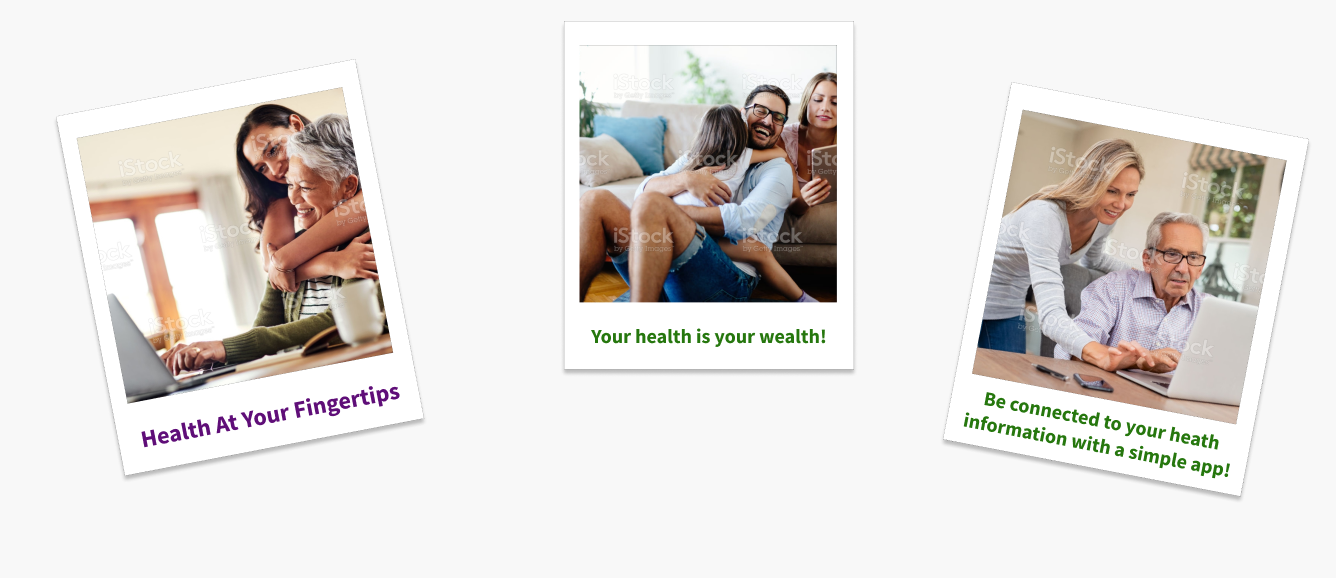
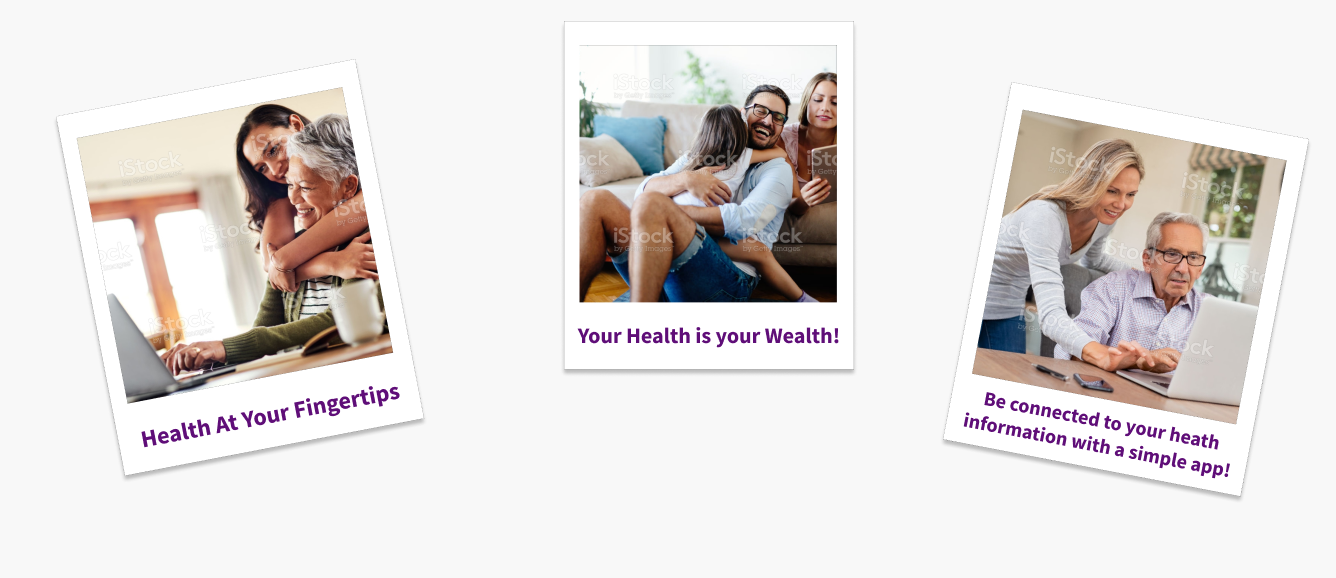
Finalish changes

Changed region(s): [[0.7058, 0.6851, 0.9207, 0.8408], [0.4296, 0.5606, 0.6445, 0.5917]]

diff --git a/src/components/Home.js b/src/components/Home.js
@@ -6,13 +6,14 @@ import "../Home.css"
 import 'bootstrap/dist/css/bootstrap.min.css';
 import QRcode from "../images/istockphoto-910737126-1024x1024.jpg"
 import healthWealth from "../images/istockphoto-1062274514-1024x1024.jpg"
-import videoPreview from "../videos/Medical buddy solutions.mp4"
+import video from "../videos/Medical buddy solutions.mp4"
 import paramedicPhoto from "../images/istockphoto-1131889468-1024x1024.jpg"
 import techPhoto from "../images/istockphoto-588366224-1024x1024.jpg"
 import {Container, Row, Col } from 'reactstrap';
 import lockPhoto from "../images/istockphoto-913016600-1024x1024.jpg"
 import healthCarePhoto from "../images/istockphoto-1182616138-2048x2048.jpg"
 import cover from "../images/Frame 2.png"
+import videoPreview from "../images/Capture.jpg";
 
 import { Player } from 'video-react';
 
@@ -25,7 +26,7 @@ class Home extends Component {
 
             <Heading/>
 
-                <Row style ={{width:"100%", backgroundColor:"#F8F8F8"}}>
+                <Row style ={{ backgroundColor:"#F8F8F8", marginLeft:"0px"}}>
 
                     {/*<Col>
 
@@ -38,7 +39,7 @@ class Home extends Component {
 
                     </Col>*/}
                     <Col>
-                        <img src={cover} style={{marginLeft: "0*27vw", width:"100vw", height:"43vw", paddingRight:"0px", paddingTop:"3vw"}}/>
+                        <img src={cover} style={{marginLeft: "0*27vw", height:"43vw", paddingRight:"0px", paddingTop:"3vw"}}/>
 
 
                     </Col>
@@ -48,7 +49,7 @@ class Home extends Component {
 
 
                 <Row xs="1" sm="2"  style ={{width:"100%", paddingRight:"0px", margin:"0px",paddingTop:"3vw", backgroundColor:"#5F0E78"}}>
-                    <Col style={{paddingLeft:"3vw",}}>
+                    <Col style={{paddingLeft:"3vw",textAlign:"center"}}>
 
                         <h1 style={{fontSize: "2vw", color:"white", fontWeight:"bold"}}>
                             Innovate your relationship with your health data</h1>
@@ -74,12 +75,14 @@ class Home extends Component {
 
                 </Row>
 
-                <Row xs="1" sm="2" style={{width: "99vw",margin:"0px", paddingTop: "6vw", paddingBottom:"7vw", backgroundColor: "#f8f8f8"}}>
-                    <Col style={{paddingLeft:"3vw"}}>
+                <Row xs="1" sm="2" style={{margin:"0px", paddingTop: "6vw", paddingBottom:"7vw", backgroundColor: "#f8f8f8"}}>
+                    <Col style={{paddingLeft:"3vw", textAlign:"center"}}>
 
                             <h1 style={{fontSize: "2.25vw", color:"#5F0E78", fontWeight:"bold"}}>
                                 Health Data On the Fly!
                             </h1>
+                            <br/>
+                            <br/>
                             <p style={{ fontSize: "2vw", color: "#5F0E78"}}>
                                 Medical Buddy Solutions realizes the value of having the capability to
                                 collaborate with medial professionals when times call for important medical details.
@@ -117,8 +120,8 @@ class Home extends Component {
                                 </div>*/}
 
                     </Col>
-                    <Col style={{textAlign:"center",margin:"auto",paddingRight: "0px", paddingLeft: "0px"}}>
-                        <Player style={{width: "32vw", paddingRight: "0px"}} src={videoPreview}/>
+                    <Col style={{textAlign:"center",margin:"auto",paddingRight: "10px", paddingLeft: "10px"}}>
+                        <Player style={{width: "25vw", paddingRight: "0px"}} src={video} poster ={videoPreview}/>
                     </Col>
                 </Row>
 
@@ -209,7 +212,7 @@ class Home extends Component {
                     */}
 
                 <Row xs="1" sm="2" style ={{width:"100%", paddingRight:"0px", margin:"0px",paddingBottom:"3vw",paddingTop:"3vw", backgroundColor:"#F8F8F8",gridAutoFlow: "row"}}>
-                    <Col style = {{}}>
+                    <Col style = {{paddingLeft:"3vw", textAlign:"center"}}>
 
                         <h1 style = {{fontSize:"2vw",marginTop:"5vw", color: "#5F0E78", fontWeight: "bold"}}>
                             Protect What Is Most Valuable
@@ -224,7 +227,7 @@ class Home extends Component {
                     </Col>
 
                     <Col style = {{textAlign: "center", margin: "auto"}}>
-                        <img src={healthWealth} style={{height:"30vw", width:"100%"}}/>
+                        <img src={healthWealth} style={{height:"30vw", width: "40vw"}}/>
                     </Col>
 
 
@@ -235,7 +238,7 @@ class Home extends Component {
                         <img src={QRcode} style={{height:"30vw"}}/>
                     </Col>
 
-                    <Col style = {{}}>
+                    <Col style = {{textAlign:"center"}}>
 
                         <h1 style = {{fontSize:"2vw",marginTop:"5vw", color: "#F8F8F8", fontWeight: "bold"}}>
                             All Your Health Records Available in One Place!

diff --git a/src/components/Our App.js b/src/components/Our App.js
@@ -24,8 +24,7 @@ class OurApp extends Component {
             </Row>
                 <Row >
                     <Col style = {{width:"47.5833333vw"}}>
-                         <h1 style={{paddingLeft: "5.41666vw" , fontSize: "3vw"}}>
-                             My Emergency Page
+                         <h1 style={{paddingLeft: "5.41666vw" , fontSize: "3vw"}}>My Emergency Page
                          </h1>
                         <h2 style={{paddingLeft: "5.41666vw" , fontSize: "1.5vw", color:"#8514a7"}}>
                             M.E.D.I (Medical Emergency Data Information)
@@ -36,7 +35,10 @@ class OurApp extends Component {
                         </p>
                     </Col>
                     <Col style ={{width: "28.83333333vw", height: "44.8333vw"}}>
-                        <img style = {{float:"right", paddingRight:"7.75vw", width: "28.83333333vw", height: "44.8333vw"}}src ={AppScreen}/>
+                        <img style = {{float:"right", paddingRight:"7.75vw", width: "28.83333333vw", height: "44.8333vw", paddingBottom: "10vw"}}src ={AppScreen}/>
+                        <br/>
+                        <br/>
+                        <br/>
 
                     </Col>
                 </Row>
@@ -47,8 +49,8 @@ class OurApp extends Component {
                             My Illness Page
                         </h1>
                         <br/>
-                        <p style={{paddingLeft: "5.41666vw" , fontSize: "2vw", color:"white"}}>
-                            Your illness page allows you to keep track of your illnessess, medications and your appointments. With our app you can take notes about what happens at your appointment, so you can always remember exactly what your health care provider tells you.
+                        <p style={{paddingLeft: "5.41666vw" ,width:"18em", fontSize: "2vw", color:"white"}}>
+                            Your illness page allows you to keep track of your illnessess, medications and your appointments. With the app you can take notes about what happens at your appointment, so you can always remember exactly what your health care provider tells you.
                         </p>
                     </Col>
                     <Col style ={{width: "28.83333333vw", height: "44.8333vw"}}>
@@ -61,10 +63,10 @@ class OurApp extends Component {
                     <>
                     <Row style={{ paddingTop:"5vw", backgroundColor:"#5F0E78", color:"white", marginRight:"0px"}}>
                         <h1 style={{paddingLeft: "10vw", fontSize: "3vw", width: "51.8333vw", color:"white"}}>
-                            My Contact Page
+                            My Illness Page
                         </h1>
-                        <p style={{paddingLeft: "10vw" , fontSize: "2vw", color:"white"}}>
-                            Your illness page allows you to keep track of your illnessess, medications and your appointments. With our app you can take notes about what happens at your appointment, so you can always remember exactly what your health care provider recommends you.                        </p>
+                        <p style={{paddingLeft: "10vw" , fontSize: "2vw", width:"18em", color:"white"}}>
+                            Your illness page allows you to keep track of your illnessess, medications and your appointments. With the app you can take notes about what happens at your appointment, so you can always remember exactly what your health care provider recommends you.                        </p>
                     </Row>
                     <Row style={{ paddingTop:"5vw", backgroundColor:"#5F0E78", color:"white"}}>
                         <h1 style={{paddingLeft: "10vw" , fontSize: "3vw", color:"white", textAlign: "center"}}> Try It Out Here</h1>
@@ -94,7 +96,7 @@ class OurApp extends Component {
                         </p>
                     </Col>
                     <Col style ={{width: "28.83333333vw", height: "44.8333vw"}}>
-                        <img style = {{float:"right", paddingRight:"7.75vw", width: "28.83333333vw", height: "28.83333333vw"}}src ={Lock}/>
+                        <img style = {{float:"right", paddingRight:"7.75vw", }}src ={Lock}/>
                     </Col>
                 </Row>
                 <Footer/>

diff --git a/src/components/Appointments.js b/src/components/Appointments.js
@@ -12,7 +12,7 @@ class Appointments extends Component {
                         </h2>
                     </Col>
                     <Col>
-                        <button style={{height: "1.5vw", width:"5.25vw", padding:"0px"}}>
+                        <button style={{height: "1.75vw", width:"5.25vw", padding:"0px"}}>
                             Add
                         </button>
                     </Col>
@@ -23,7 +23,7 @@ class Appointments extends Component {
 
                             <Col>
                                 <p>
-                                    <button style={{backgroundColor: "#770E49", padding:"0px", color:"white", borderRadius:"0px", height: "1.5vw", width:"1.5vw", marginRight:"0.4vw" }}>
+                                    <button style={{backgroundColor: "#770E49", display: "inline-flex", alignItems: "center", color:"white", borderRadius:"0px", height: "1.5vw", width:"1.5vw", marginRight:"0.4vw" }}>
                                         x
                                     </button>
 
@@ -63,6 +63,11 @@ class Appointments extends Component {
                                     </a>
 
                                 </div>
+                            </li>
+                            <li>
+                                <button style={{height: "1.75vw",  padding:"0px"}}>
+                                    Begin Appointment Recording
+                                </button>
                             </li>
                             {/*<li>
                                 <div>

diff --git a/src/components/FAQs.js b/src/components/FAQs.js
@@ -24,13 +24,24 @@ class FaQs extends Component {
                             Is my data safe?
                         </h2>
                         <br/>
-                        <p style={{paddingLeft:"8vw" , fontSize: "2vw", color: "#26770E"}}>
-                            Yes, your data is secured by blockchain.......
+                        <p style={{paddingLeft:"8vw" , fontSize: "2vw", color: "#8514A7"}}>
+                            Yes, your data is secured through your private key. As long as that is kept private, so is your data.
                         </p>
 
                     </Col>
                 </Row>
+                <Row>
+                    <Col>
+                        <h2 style={{paddingLeft:"8vw" , fontSize: "3vw", color: "#5F0E78"}}>
+                            Is there a monthly fee or subscription?
+                        </h2>
+                        <br/>
+                        <p style={{paddingLeft:"8vw" , fontSize: "2vw", color: "#8514A7"}}>
+                            For adult accounts, you make your one time payment of $30 you will have access to the platform for life.
+                        </p>
 
+                    </Col>
+                </Row>
                 <br/>
                 <br/>
                 <Footer/>

diff --git a/src/components/Our Mission.js b/src/components/Our Mission.js
@@ -5,13 +5,15 @@ import Heading from "./Heading";
 import Footer from "./Footer";
 import healthCarePhoto from "../images/istockphoto-1182616138-2048x2048.jpg";
 import {Player} from "video-react";
-import videoPreview from "../videos/Medical buddy solutions.mp4";
+import video from "../videos/Medical buddy solutions.mp4";
+import videoPreview from "../images/Capture.jpg";
+
 class OurMission extends Component {
     render() {
         return (
             <Container id = "siteContainer">
                 <Heading/>
-                <Row style ={{width:"100vw"}}>
+                <Row style ={{}}>
                 <Col style={{paddingTop: "2vw"}}>
 
                         <h1 style={{paddingLeft:"8vw", fontSize: "4vw"}}>
@@ -19,7 +21,7 @@ class OurMission extends Component {
                         </h1>
                         <center>
                         <div style={{textAlign:"center", width:"50vw"}}>
-                         <Player src={videoPreview}/>
+                         <Player src={video} poster = {videoPreview}/>
                         </div>
                         </center>
                         <p style={{paddingLeft:"8vw" , fontSize: "2vw", color: "#8514a7"}}>

diff --git a/src/components/Doctors.js b/src/components/Doctors.js
@@ -44,7 +44,7 @@ class Doctors extends Component {
                         </h2>
                     </Col>
                     <Col>
-                        <button onClick={this.addNewDoctor} style={{height: "1.5vw", width:"5.25vw", padding:"0px"}}>
+                        <button onClick={this.addNewDoctor} style={{height: "1.75vw", width:"5.25vw", padding:"0px"}}>
                             Add
                         </button>
                     </Col>
@@ -56,7 +56,7 @@ class Doctors extends Component {
 
                             <Col>
                                 <p style={{fontWeight: "bold"}}>
-                                    <button style={{backgroundColor: "#770E49", padding:"0px", color:"white", borderRadius:"0px", height: "1.5vw", width:"1.5vw", marginRight:"0.4vw" }}>
+                                    <button style={{backgroundColor: "#770E49", display: "inline-flex", alignItems: "center", color:"white", borderRadius:"0px", height: "1.5vw", width:"1.5vw", marginRight:"0.4vw" }}>
                                         x
                                     </button>
 

diff --git a/src/components/Medications.js b/src/components/Medications.js
@@ -12,7 +12,7 @@ class Medications extends Component {
                         </h2>
                     </Col>
                     <Col>
-                        <button style={{height: "1.5vw", width:"5.25vw", padding:"0px"}}>
+                        <button style={{height: "1.75vw", width:"5.25vw", padding:"0px"}}>
                             Add
                         </button>
                     </Col>
@@ -23,7 +23,7 @@ class Medications extends Component {
                            
                            <Col>
                        <p style={{fontWeight:"bold"}}>
-                           <button style={{backgroundColor: "#770E49", color:"white", borderRadius:"0px", padding:"0px",height: "1.5vw", width:"1.5vw", marginRight:"0.4vw" }}>
+                           <button style={{backgroundColor: "#770E49", color:"white", borderRadius:"0px",  display: "inline-flex", alignItems: "center",height: "1.5vw", width:"1.5vw", marginRight:"0.4vw" }}>
                                x
                            </button>
 

diff --git a/src/components/Notes.js b/src/components/Notes.js
@@ -14,7 +14,7 @@ class Notes extends Component {
                 </Row>
                 <Row>
                     <Col>
-                       <button style={{backgroundColor: "#770E49", padding:"0px", color:"white", borderRadius:"0px",height: "1.5vw", width:"1.5vw", marginRight:"0.4vw" }}>x </button> <input style ={{width: "16vw", height: "8vw"}} placeholder="" disabled = {true}/>
+                       <button style={{backgroundColor: "#770E49", display: "inline-flex", alignItems: "center", color:"white", borderRadius:"0px",height: "1.5vw", width:"1.5vw", marginRight:"0.4vw" }}>x </button> <input style ={{width: "16vw", height: "8vw"}} placeholder="" disabled = {true}/>
                     </Col>
                 </Row>
 

diff --git a/src/components/AppointmentsMobile.js b/src/components/AppointmentsMobile.js
@@ -64,6 +64,11 @@ class AppointmentsMobile extends Component {
 
                                 </div>
                             </li>
+                            <li>
+                                <button style={{height: "6vw", padding:"0px", fontSize: "3vw"}}>
+                                    Begin Appointment Recording
+                                </button>
+                            </li>
                         </ul>
                     </Col>
                 </Row>

diff --git a/src/components/Footer.js b/src/components/Footer.js
@@ -10,7 +10,7 @@ class Footer extends Component {
         let liStyle ={display: "inline", paddingLeft: "3vw", color: "white", font:"Roboto", style:"normal", weight:"400", fontSize:"1.25vw"}
 
         return (
-            <div style={{backgroundColor:"#5F0E78", width:"99vw"}}>
+            <div style={{backgroundColor:"#5F0E78",}}>
 
                 <Row style={{paddingTop:"3.333vw"}}>
                     <Col style={{

diff --git a/src/components/Contact.js b/src/components/Contact.js
@@ -28,6 +28,9 @@ class Contact extends Component {
                 <button style={{marginLeft: "46vw",fontSize:"2vw",marginTop:"2vw",width:"10vw",fontColor:"#FFFFFFFFF"}}>
                     Submit
                 </button>
+                <br/>
+                <br/>
+                <br/>
                     <Footer/>
             </Container>
             );

diff --git a/src/components/MyIllnessPage.js b/src/components/MyIllnessPage.js
@@ -12,7 +12,7 @@ import Doctors from "./Doctors";
 import Reminders from "./Reminders";
 import Diagnosis from "./Diagnosis";
 import Notes from "./Notes";
-import Logo from "../images/Rectangle 1.png"
+import Logo from "../images/AppLogo.png"
 class MyIllnessPage extends Component {
     //8.417836%
 
